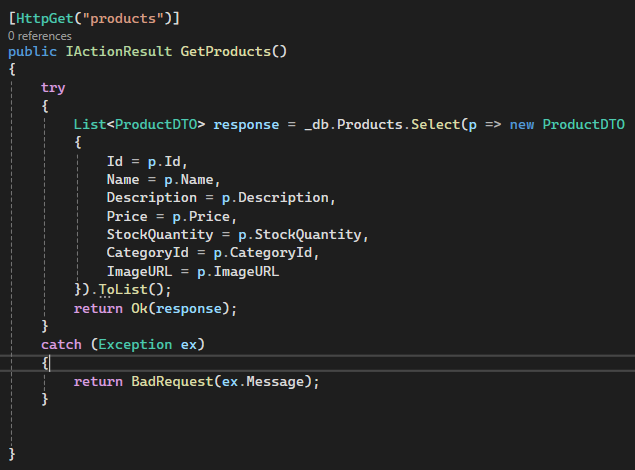
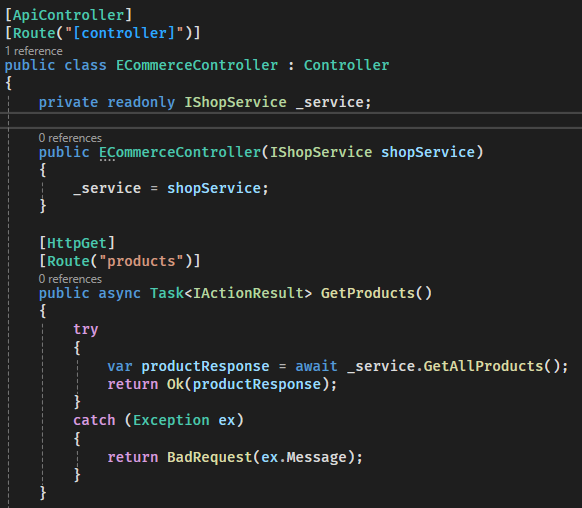
Update README

diff --git a/README.md b/README.md
@@ -1,14 +1,14 @@
 # ECommerce - Backend
 ## .NET WebAPI
-### WORK IN PROGRESS
 
-### This is my implementation of the backend for my E-Commerce solution. Using C# and ASP.NET Core, I have developed endpoints responsible for manipulating and retrieving data from a Microsoft SQL Server database. Entity Framework Core is used for seeding the database with example data and managing relationships between tables.
-### Here’s an example of using an entity to create a table with a relationship to another table:
+### This is my implementation of the backend for my E-Commerce solution. Using C# and .NET Core, I have developed endpoints responsible for manipulating and retrieving data from a Microsoft SQL Server database. Entity Framework Core is used for seeding the database with example data and managing relationships between tables:
 ![Reference Image](/README_photos/entity.PNG)
 ### Below is the complete database diagram:
 ![Reference Image](/README_photos/database_diagram.PNG)
-### Each endpoint serves a specific purpose. For example, the following endpoint is responsible for retrieving data from the *Products* table:
+### My implementation revolves around the service *ShopService*, which handles all business logic:
+![Reference Image](/README_photos/service.PNG)
+### Then, I configure the API endpoint in the application's controller, which calls the necessary methods from the service: 
 ![Reference Image](/README_photos/get_products.PNG)
 ### To ensure that the original objects remain unchanged, I use Data Transfer Objects (DTOs). After running the application, the Swagger page displays a list of all API endpoints:
+![Reference Image](/README_photos/swagger_endpoints.PNG)
 ![Reference Image](/README_photos/swagger.PNG)
-# This project is currently under development. Any changes or improvements will be updated accordingly.
